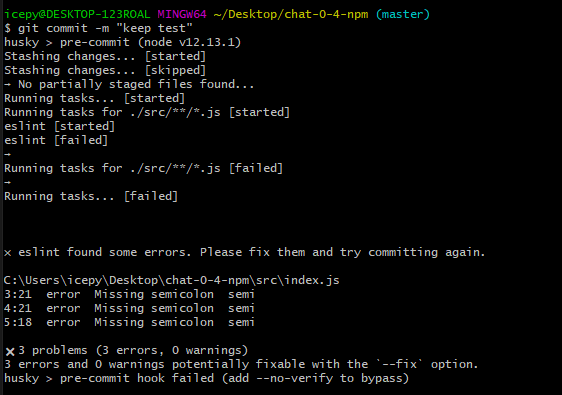
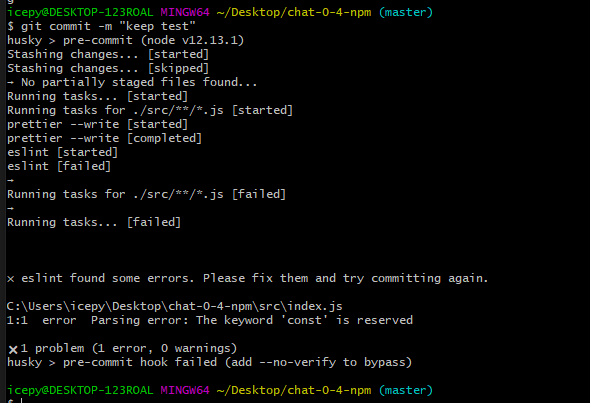
keep test

Changed region(s): [[0.0, 0.0, 0.847, 1.0]]

diff --git a/src/index.js b/src/index.js
@@ -5,6 +5,4 @@ console.log("hello");
 console.log("wo");
 console.log("game");
 
-ASDASD
-
 query();

diff --git a/README.md b/README.md
@@ -426,10 +426,6 @@ query();
 
 创建 `.eslintignore` 对于一些文件或目录进行忽略。
 
-在使用 `prettier` 之前，如果有风格类的错误，你能得到：
-
-![img](./img/f.png)
-
 接着在 `package.json` 文件中进行配置 git hook 的处理方式：
 
 ```json
@@ -451,9 +447,11 @@ query();
 }
 ```
 
-
-
 只有 `src` 目录中的文件被修改了才会触发，先执行 `prettier` 然后再执行 `eslint`。
+
+假设，我们有一个不是风格上的错误，你会得到：
+
+![img](./img/f.png)
 
 > 小提示
 
@@ -476,4 +474,3 @@ query();
 想想著名的 `left-pad` 事件，导致很多不能用，当然后面 NPM 的做法是收回了删除的权限。还有一些是直接在代码中注入另外的脚本代码，我们可以将它看做木马，这个事情多数在和钱包相关的领域中被发现。
 
 整体来看，在我们依赖开源项目的今天，安全这个事情，很值得我们去思考，我们该用什么机制，来至少保证依赖的安全性？
-
